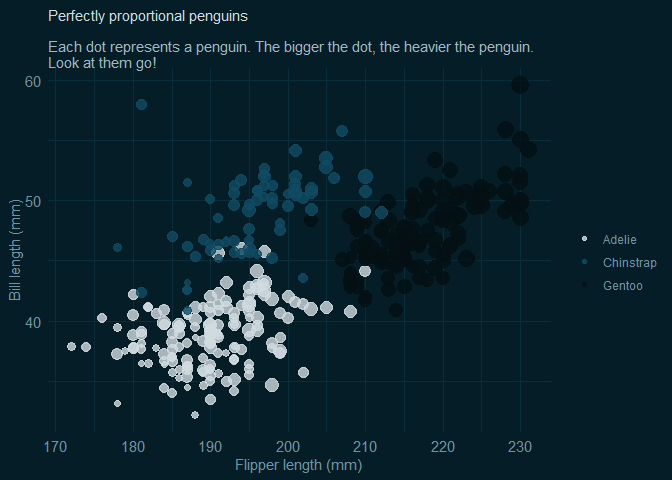
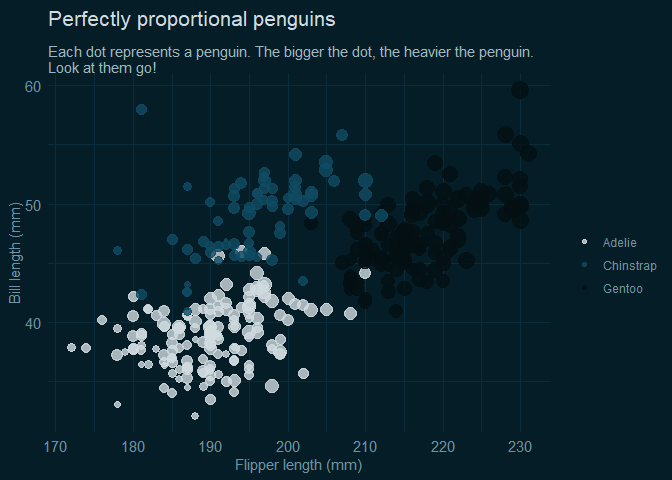
Specified size of title in plot

diff --git a/README.md b/README.md
@@ -180,7 +180,7 @@ penguin_plot +
                                           colour = penguin_palette[8]),
           text = element_text(colour = penguin_palette[3]),
           axis.text = element_text(colour = penguin_palette[3]),
-          plot.title = element_text(colour = penguin_palette[1], hjust = 0),
+          plot.title = element_text(colour = penguin_palette[1], hjust = 0, size = 16),
           plot.subtitle = element_text(colour = penguin_palette[2], hjust = 0))
 ```
 
